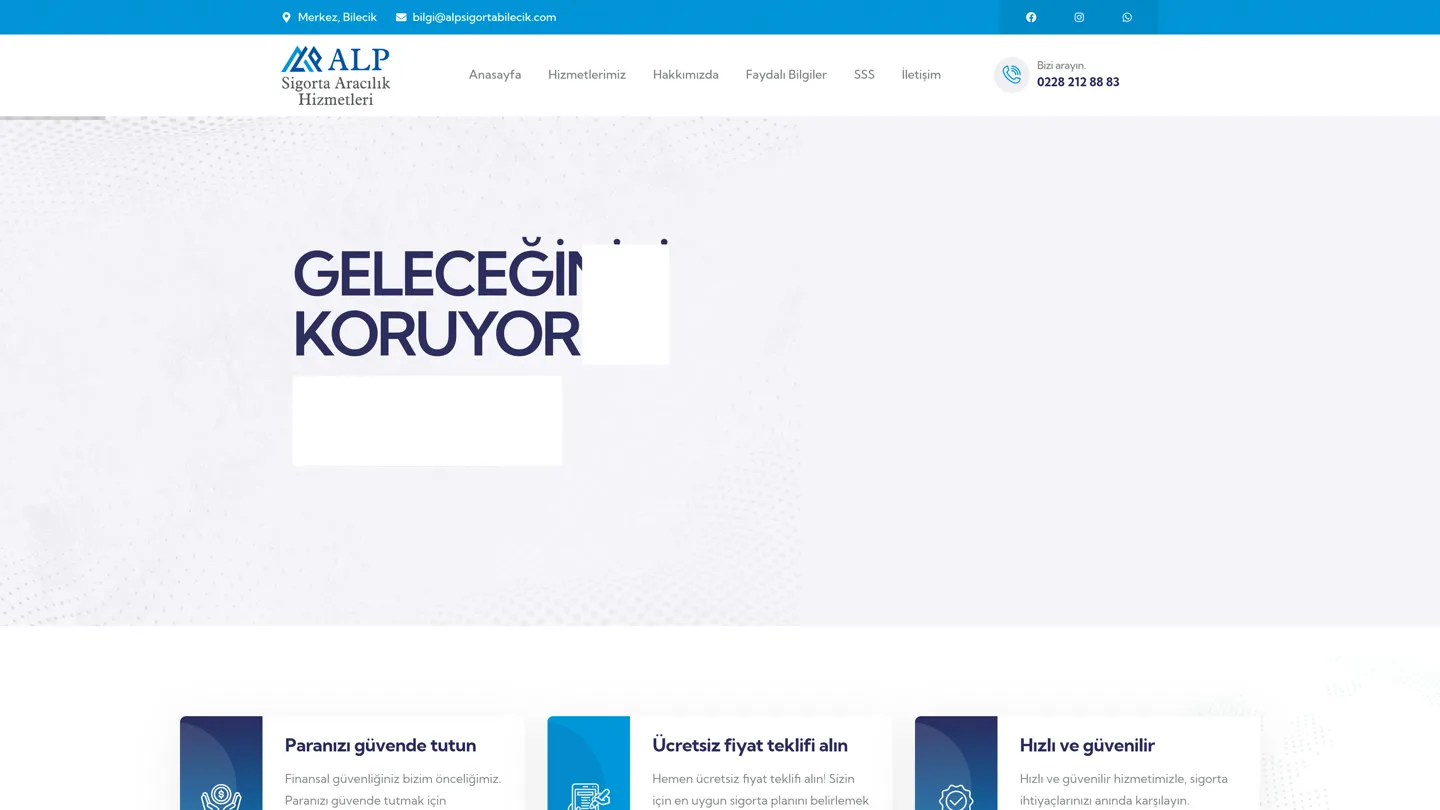
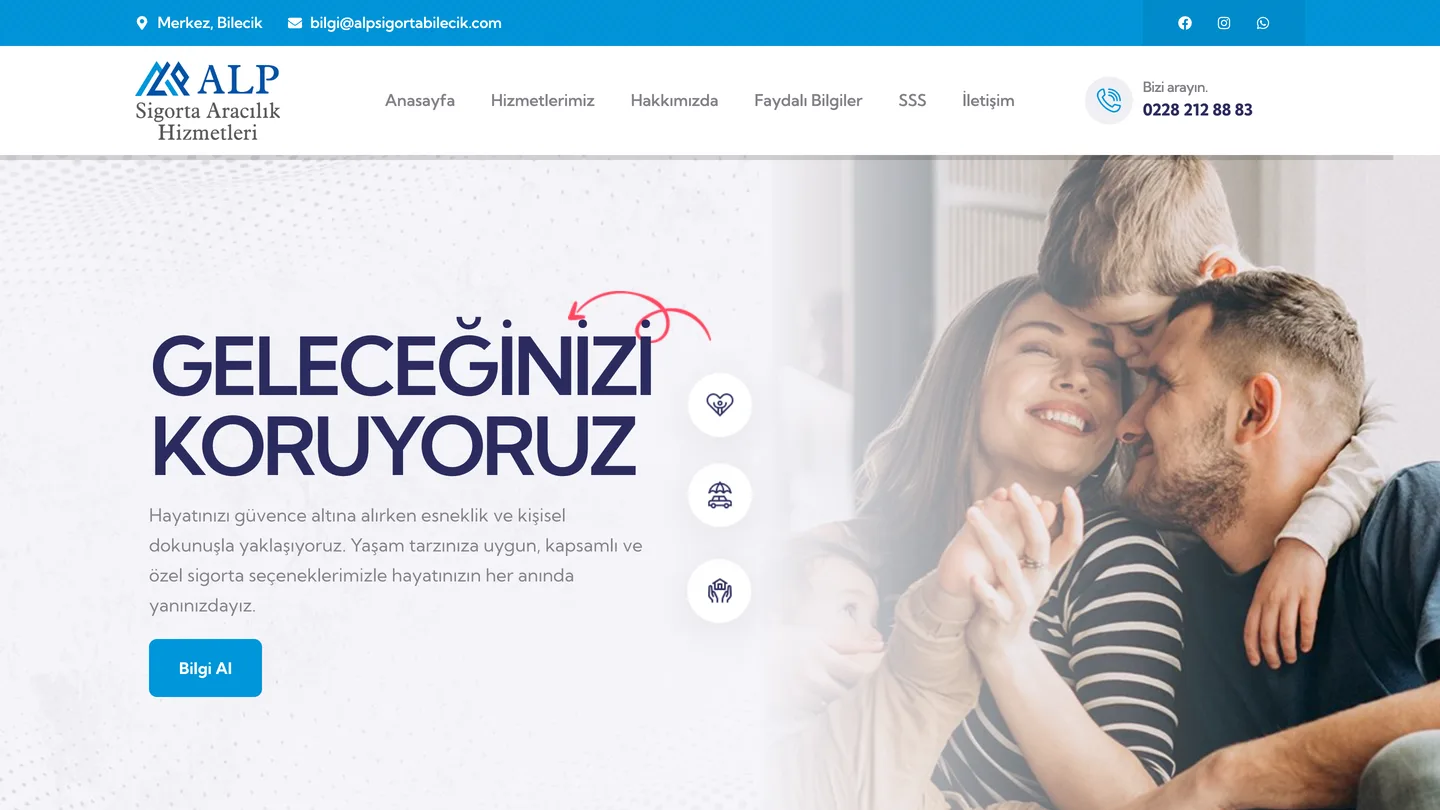
feat(content): 7 proje kaldirildi, Alp Sigorta gorseli canli siteden yenilendi
Kaldirilan projeler (kullanici karari): lider-emlak, gemini-tracker,
ai-dating-app, manager-oto-servis, sevgili-yogurt, osyb-hap, avie-global.
WORKS 56 -> 49, `n` alanlari 01-49 olarak yeniden numaralandi.
tr/en/ru cevirileri de silindi (231 -> 210 kontrol, hepsi eksiksiz).

Alp Sigorta preview'i bozuktu: hero fotografi yuklenmeden screenshot alinmis,
basligin uzerinde bos beyaz kutular kaliyordu. Her iki microlink cekimi de
(1280px ve 3840px) ayni sorunu tasiyordu. Yeni gorsel alpsigortabilecik.com'dan
1440x810 viewport'ta canli cekildi.

Saiber ortakli proje sayisi 20 -> 18 (lider-emlak ve avie-global cikti);
CLAUDE.md ve piton-docs/MEMORY.md guncellendi.

diff --git a/src/lib/data.ts b/src/lib/data.ts
@@ -784,24 +784,6 @@ export const WORKS: Work[] = [
   },
   {
     n: "34",
-    slug: "lider-emlak",
-    title: "Lider Emlak",
-    client: "Lider Emlak (Bozüyük)",
-    kind: "Web Design · Real Estate",
-    year: "2023",
-    role: "Design / Development",
-    collaborator: "Saiber",
-    tags: ["WordPress", "Real Estate", "Listings", "SEO"],
-    image: "story-05.jpg",
-    summary: "Real estate listing website for a Bozüyük-based agency.",
-    body: [
-      "Lider Emlak için Bozüyük'teki portföyünü profesyonelce sergileyebileceği, ilanların kategorize edilip listelendiği bir emlak web sitesi geliştirdik. WordPress üzerinde özel tema ile markaya uygun bir tasarım kurduk.",
-      "İlan yönetimi, konum bilgileri ve iletişim akışları tek panelden yönetilebilir hale geldi. Temel teknik SEO ile yerel aramalarda görünürlük sağlandı. Proje Saiber ortaklığıyla teslim edildi.",
-    ],
-    scope: "Web design, listings, SEO",
-  },
-  {
-    n: "35",
     slug: "odeme-takip-botu",
     title: "Ödeme Takip Botu",
     client: "Piton Studios",
@@ -818,7 +800,7 @@ export const WORKS: Work[] = [
     scope: "Automation, backend, Telegram integration",
   },
   {
-    n: "36",
+    n: "35",
     slug: "deprem-erken-uyari",
     title: "Deprem Erken Uyarı",
     client: "Piton Studios",
@@ -835,7 +817,7 @@ export const WORKS: Work[] = [
     scope: "Deep learning, time series, research",
   },
   {
-    n: "37",
+    n: "36",
     slug: "arac-takip-yolo",
     title: "Araç Takip Sistemi",
     client: "Piton Studios",
@@ -852,7 +834,7 @@ export const WORKS: Work[] = [
     scope: "Computer vision, object tracking, research",
   },
   {
-    n: "38",
+    n: "37",
     slug: "trafik-levha-okuma",
     title: "Trafik Levha Okuma",
     client: "Piton Studios",
@@ -869,7 +851,7 @@ export const WORKS: Work[] = [
     scope: "Computer vision, classification pipeline, research",
   },
   {
-    n: "39",
+    n: "38",
     slug: "yuz-duygu-analizi",
     title: "Yüz Duygu Analizi",
     client: "Piton Studios",
@@ -886,7 +868,7 @@ export const WORKS: Work[] = [
     scope: "Computer vision, real-time analysis, research",
   },
   {
-    n: "40",
+    n: "39",
     slug: "hava-goruntu-segmentasyonu",
     title: "Hava Görüntüsü Segmentasyonu",
     client: "Piton Studios",
@@ -903,7 +885,7 @@ export const WORKS: Work[] = [
     scope: "Semantic segmentation, satellite imagery, research",
   },
   {
-    n: "41",
+    n: "40",
     slug: "fuze-gudum-simulasyonu",
     title: "Füze Güdüm Görselleştirme",
     client: "Piton Studios",
@@ -920,7 +902,7 @@ export const WORKS: Work[] = [
     scope: "Simulation, algorithm visualization, research",
   },
   {
-    n: "42",
+    n: "41",
     slug: "contentflow-ai",
     title: "ContentFlow AI",
     client: "ContentFlow AI",
@@ -937,7 +919,7 @@ export const WORKS: Work[] = [
     scope: "SaaS product, AI content, prototype",
   },
   {
-    n: "43",
+    n: "42",
     slug: "social-pro",
     title: "Social Pro",
     client: "Social Pro",
@@ -954,7 +936,7 @@ export const WORKS: Work[] = [
     scope: "SaaS product, social media management, prototype",
   },
   {
-    n: "44",
+    n: "43",
     slug: "holly-trader",
     title: "Holly Trader",
     client: "Holly Trader",
@@ -971,41 +953,7 @@ export const WORKS: Work[] = [
     scope: "Fintech tool, analytics, prototype",
   },
   {
-    n: "45",
-    slug: "ai-dating-app",
-    title: "AI Dating App",
-    client: "AI Dating App",
-    kind: "Product · AI",
-    year: "2025",
-    role: "Product / Development",
-    tags: ["Next.js", "AI", "Matching", "Concept"],
-    image: "story-01.jpg",
-    summary: "AI-powered matching concept for a dating product, prototyped with Next.js.",
-    body: [
-      "Kullanıcı profillerini yapay zekâ ile analiz edip uyum bazlı eşleştirme öneren bir tanışma uygulaması konsepti geliştirdik. Next.js üzerinde kurulan prototip; profil akışı, eşleştirme mantığı ve öneri ekranlarını içeriyor.",
-      "Ürün fikri aşamasındaki bu çalışma; AI destekli öneri sistemleri ve modern ürün prototipleme deneyimimizi gösteriyor.",
-    ],
-    scope: "Product concept, AI matching, prototype",
-  },
-  {
-    n: "46",
-    slug: "gemini-tracker",
-    title: "Gemini Tracker",
-    client: "Gemini Tracker",
-    kind: "AI Tool · Automation",
-    year: "2025",
-    role: "Product / Development",
-    tags: ["Gemini API", "AI", "Tracking", "Automation"],
-    image: "story-02.jpg",
-    summary: "Gemini API-based tracking and monitoring tool prototype.",
-    body: [
-      "Gemini API'ını kullanarak içerik ve veri akışlarını izleyen, özetleyen ve raporlayan bir takip aracı prototipi geliştirdik. LLM tabanlı analiz ile ham veriden anlamlı özetler üretiliyor.",
-      "Bu Ar-Ge aracı; büyük dil modeli entegrasyonu ve otomasyon senaryolarını birleştirme deneyimimizin pratik bir örneği.",
-    ],
-    scope: "AI tool, tracking, prototype",
-  },
-  {
-    n: "47",
+    n: "44",
     slug: "lithos",
     title: "Lithos",
     client: "Lithos",
@@ -1027,7 +975,7 @@ export const WORKS: Work[] = [
     },
   },
   {
-    n: "48",
+    n: "45",
     slug: "vanguard",
     title: "Vanguard",
     client: "Vanguard",
@@ -1049,7 +997,7 @@ export const WORKS: Work[] = [
     },
   },
   {
-    n: "49",
+    n: "46",
     slug: "jack-portfolio",
     title: "Jack — 3D Creator",
     client: "Jack Portfolio",
@@ -1071,7 +1019,7 @@ export const WORKS: Work[] = [
     },
   },
   {
-    n: "50",
+    n: "47",
     slug: "veldara",
     title: "Veldara",
     client: "Veldara",
@@ -1093,24 +1041,7 @@ export const WORKS: Work[] = [
     },
   },
   {
-    n: "51",
-    slug: "manager-oto-servis",
-    title: "Manager",
-    client: "Manager",
-    kind: "SaaS · CRM",
-    year: "2026",
-    role: "Product / Development",
-    tags: ["Next.js", "Multi-tenant", "CRM", "Accounting"],
-    image: "story-03.jpg",
-    summary: "Multi-tenant SaaS CRM and pre-accounting platform for auto service businesses.",
-    body: [
-      "Manager, oto servis ve makinist işletmelerine özel geliştirdiğimiz multi-tenant bir SaaS platformu. Araç akışı, stok yönetimi, hizmet satışı, faturalama, cari hesaplar, çalışan yönetimi, hatırlatmalar ve raporlama tek çatı altında toplanıyor.",
-      "Wildcard subdomain mimarisiyle her işletme kendi alan adında çalışıyor. KKTC oto servis işletmelerini hedefleyen bu kendi ürünümüz; yatay SaaS mimarisi ve çok kiracılı sistem tasarımı yetkinliğimizi gösteriyor.",
-    ],
-    scope: "Multi-tenant SaaS, CRM, pre-accounting",
-  },
-  {
-    n: "52",
+    n: "48",
     slug: "emlak-sync",
     title: "Emlak Sync",
     client: "Emlak Sync",
@@ -1127,24 +1058,7 @@ export const WORKS: Work[] = [
     scope: "Listing sync, portal integrations, automation",
   },
   {
-    n: "53",
-    slug: "sevgili-yogurt",
-    title: "Sevgili Yoğurt",
-    client: "Sevgili Yoğurt",
-    kind: "Web App · PWA",
-    year: "2026",
-    role: "Product / Development",
-    tags: ["PWA", "Next.js", "Inventory", "Finance"],
-    image: "story-05.jpg",
-    summary: "Mobile-first PWA for a dairy producer — stock, customers, deliveries and account ledgers.",
-    body: [
-      "Sevgili Yoğurt; yoğurt, peynir ve süt ürünleri üreten bir firma için geliştirdiğimiz stok + müşteri + sevkiyat + cari hesap takip uygulaması. Mobil öncelikli PWA yapısıyla kullanıcı telefondan müşteri seçip bırakılan ürünleri giriyor; stok otomatik düşüyor, cari hesaba borç yazılıyor.",
-      "Sahada tek elden kullanım için sadeleştirilen bu uygulama; küçük üreticilerin günlük operasyonunu dijitalleştiren pratik bir iş uygulaması örneği.",
-    ],
-    scope: "PWA, inventory, delivery, account tracking",
-  },
-  {
-    n: "54",
+    n: "49",
     slug: "dolmus-kontrol",
     title: "Dolmuş Güzergah Kontrol",
     client: "Piton Studios",
@@ -1159,41 +1073,6 @@ export const WORKS: Work[] = [
       "Flask tabanlı bu web uygulaması; elle yapılan saatlerce süren kontrolü dakikalara indiriyor — veri işleme ve süreç otomasyonu yetkinliğimizin sahadan bir örneği.",
     ],
     scope: "Automation, data processing, reporting",
-  },
-  {
-    n: "55",
-    slug: "osyb-hap",
-    title: "ÖSYB Hap",
-    client: "ÖSYB Hap",
-    kind: "Web App · Education",
-    year: "2026",
-    role: "Product / Development",
-    tags: ["Next.js", "Education", "Flashcards", "Platform"],
-    image: "story-02.jpg",
-    summary: "Exam-prep platform with bite-size flashcards, question bank and notes.",
-    body: [
-      "ÖSYB Hap, ÖSYB sınavlarına hazırlananlar için geliştirdiğimiz bir sınav hazırlık platformu. Hap bilgi kartları (flashcard), soru bankası, not alma ve profil/ilerleme takibi tek uygulamada birleşiyor.",
-      "Next.js üzerinde kurulan bu kendi ürünümüz; eğitim teknolojisi alanında içerik organizasyonu ve öğrenme deneyimi tasarımı yetkinliğimizi gösteriyor.",
-    ],
-    scope: "Education platform, flashcards, question bank",
-  },
-  {
-    n: "56",
-    slug: "avie-global",
-    title: "Avie Global",
-    client: "Avie Global Trading",
-    kind: "Web Design · Trading",
-    year: "2024",
-    role: "Design / Development",
-    collaborator: "Saiber",
-    tags: ["WordPress", "Automotive", "Trading", "Multi-language"],
-    image: "story-03.jpg",
-    summary: "Automotive spare parts trading company corporate website.",
-    body: [
-      "Avie Global Trading için otomotiv yedek parça ticareti alanında kurumsal bir web sitesi tasarladık. WordPress altyapısı üzerinde şirket profili, ürün grupları ve iletişim akışlarını tek yapıda topladık.",
-      "Global ticaret odaklı tasarım, çok dilli içerik yapısı ve SEO optimizasyonu ile uluslararası müşterilere ulaşmayı hedefledik.",
-    ],
-    scope: "Web design, corporate, multi-language",
   },
 ];
 

diff --git a/CLAUDE.md b/CLAUDE.md
@@ -31,9 +31,9 @@ uzerine kurulu, 3 dilli (tr/en/ru), hizli yuklenen modern bir portfolyo sitesi.
 > (Supabase kurulumu, video pipeline, admin CRUD API'leri). Hicbiri uygulanmamisti;
 > `NEVER_DONE` olarak duzeltildi. Yeniden yapilmasi planlanmiyor.
 
-- **56 proje** WORKS array'inde — freelancer klasöründen 13 + 5 canlı self-development (FurCRM slider #2, canlı linkler `url` alanıyla) + Work-Restored taramasından 5 + avie-global geri eklendi; nexos-investment mükerrer girdisi silindi. 2026-07-27: tüm kulüp/nightlife projeleri kaldırıldı (WORKS'ten 10, STORIES'ten 5 — detay: piton-docs/MEMORY.md). İlk 6 proje slider'da
+- **49 proje** WORKS array'inde — freelancer klasöründen 13 + 5 canlı self-development (FurCRM slider #2, canlı linkler `url` alanıyla) + Work-Restored taramasından 5; nexos-investment mükerrer girdisi silindi. 2026-07-27: tüm kulüp/nightlife projeleri kaldırıldı (WORKS'ten 10, STORIES'ten 5 — detay: piton-docs/MEMORY.md). 2026-07-29: 7 proje daha kaldırıldı (lider-emlak, gemini-tracker, ai-dating-app, manager-oto-servis, sevgili-yogurt, osyb-hap, avie-global) — `n` alanları 01–49 olarak yeniden numaralandı. İlk 6 proje slider'da
 - **Case study'ler güçlendirildi**: Nexos (flagship full-stack anlatım), Ambalaj Cini (%30 büyüme), Sammys (özel rezervasyon), Radyo Juke (özel entegrasyon)
-- **Saiber ortaklığı**: 19 projede `collaborator: "Saiber"` — detay sayfasında "İş Birliği" metası olarak görünüyor (liste: piton-docs/MEMORY.md)
+- **Saiber ortaklığı**: 18 projede `collaborator: "Saiber"` — detay sayfasında "İş Birliği" metası olarak görünüyor (liste: piton-docs/MEMORY.md)
 - **Anasayfa**: Hero → Spark CTA → Manifesto → Services → Projects → About → Contact (7 scene)
 - **Nav**: Unified chrome (anasayfa + ic sayfalar ayni nav)
 - **Videolar**: YOK — `videos/` (289 MB) 2026-07-28'de silindi, kodda tek referansi yoktu
@@ -43,8 +43,7 @@ uzerine kurulu, 3 dilli (tr/en/ru), hizli yuklenen modern bir portfolyo sitesi.
 - **Ceviriler**: 231/231 eksiksiz (works 56, stories 6, servicesList 15 × 3 dil).
   `pnpm content:check` ile dogrulanir — **her yeni icerikten sonra calistirin**, eksik varsa exit 1.
 - **Bekleyen (kullanici tarafinda)**: `NEXT_PUBLIC_SITE_URL` ve `RESEND_API_KEY` Vercel'e eklenmeli.
-  Resend hesabi `pitonstudios@gmail.com` ile acilmali. Ayrica proje tarihleri duzeltilecek;
-  avie-global'in Saiber atifi teyit bekliyor.
+  Resend hesabi `pitonstudios@gmail.com` ile acilmali. Ayrica proje tarihleri duzeltilecek.
 
 ### Sprint 1 tamamlandi (2026-07-28) — SEO + Blog + Analytics
 

diff --git a/piton-docs/MEMORY.md b/piton-docs/MEMORY.md
@@ -29,7 +29,8 @@
 ## Saiber Ortakligi (proje atiflari)
 - Saiber = Kibris merkezli ajans, eski adi Media King. WordPress tabanli islerin cogu Saiber ortakliginda teslim edildi.
 - Kaynak dogrulugu: `/Users/arlec/Work-Restored/freelancer/02-projeler-case-study.md` (ajans notu) — atif sorularinda oraya bak.
-- WORKS'te `collaborator: "Saiber"` olan 20 proje: velis-ltd, pampas-investment, ekh-yapi, radyo-juke, ozge-ozler, rnv-trading, pinnacle-yatirim, jet-transfer-cyprus, boon-fresh, halas-exchange, arslan-estates, arslan-coin-center, arslan-group, homes-in-mediterranean, sammys-hotel, all-pro-cyprus, alert-muhendislik, virginia-ice-cream, lider-emlak, avie-global (avie-global: WP kurali geregi eklendi, kullanici teyidi bekliyor)
+- WORKS'te `collaborator: "Saiber"` olan 18 proje: velis-ltd, pampas-investment, ekh-yapi, radyo-juke, ozge-ozler, rnv-trading, pinnacle-yatirim, jet-transfer-cyprus, boon-fresh, halas-exchange, arslan-estates, arslan-coin-center, arslan-group, homes-in-mediterranean, sammys-hotel, all-pro-cyprus, alert-muhendislik, virginia-ice-cream
+  (lider-emlak ve avie-global 2026-07-29'da portfolyodan tamamen kaldirildi — avie-global'in Saiber atifi hic teyit edilmedi)
 - Lefke Belediyesi HIC YAPILMADI — freelancer dokumaninda listelense de siteye EKLENMEYECEK (kullanici 2026-07-16'da kaldirtti)
 - Bagimsiz (collaborator YOK): nexos-investment, bt-elevator, gel-gez-gor, alp-sigorta, beton-store, ambalaj-cini, taksi & transfer siteleri (jet-transfer haric), tum AI/SaaS isleri
 - Kulup/nightlife siteleri 2026-07-27'de KALDIRILDI (kullanici istegi — portfolyoda listelenmesinler): WORKS'ten 10 (night-club-katalog, kibris-gece-hayati, gece-kibris, prenses/miracle/misse/crazy-girl-night-club, kibris-nights-club, kibris-katalog, faraon-night-clubs), STORIES'ten 5 (kibris-night-club, miracle-night-club, fareon-night-club, ibo-seytan, kibris-gece-hayati). Ceviriler de silindi; preview webp'leri assets'te duruyor
